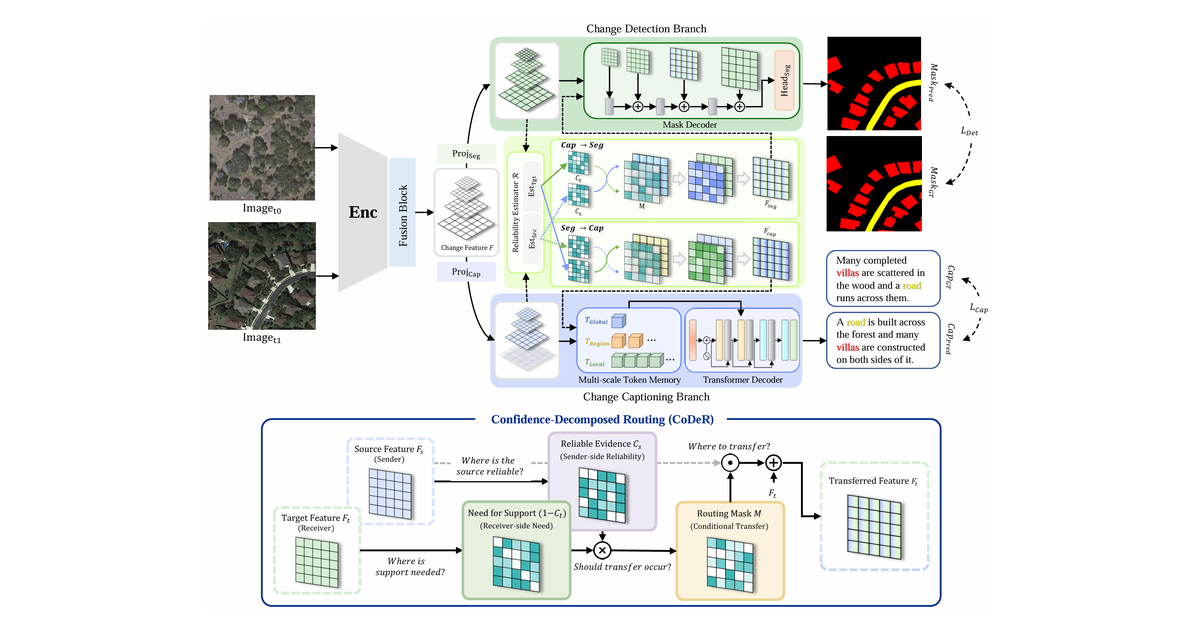
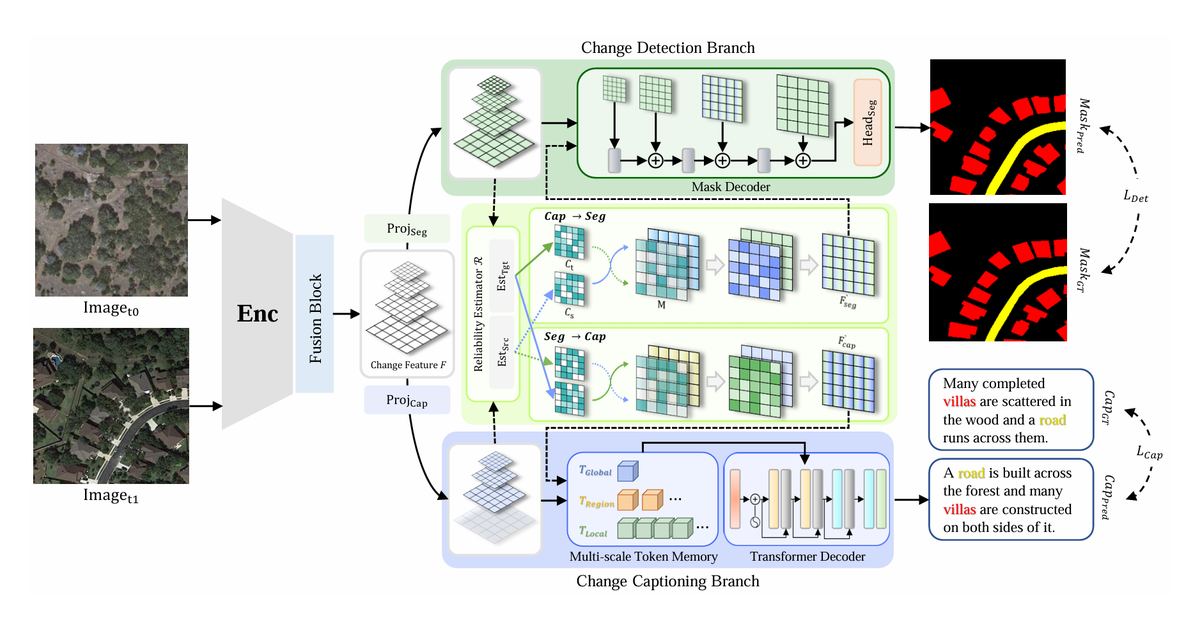
Split overview figure, link Paper to arXiv
- teaser: overview.png -> overview1.png (architecture only); caption drops
  "shown at the bottom" since the CoDeR block is no longer in this figure
- method: overview2.png (CoDeR block) between the intro paragraph and the
  three cue cards
- Paper button -> https://arxiv.org/abs/2610.34876; arXiv button removed,
  with the now unused academicons stylesheet and disabled-button rule
- citation_pdf_url, social preview regenerated from overview1.png, README

diff --git a/index.html b/index.html
@@ -7,8 +7,7 @@
   <!--
     TODO before the camera-ready release (search for "TODO" in this file):
       1. Full paper title: hero <h1>/subtitle, citation_title, JSON-LD headline, BibTeX title
-      2. Paper / arXiv links: the two disabled buttons in .publication-links (+ citation_pdf_url)
-      3. Abstract: replace the draft with the camera-ready abstract
+      2. Abstract: replace the draft with the camera-ready abstract
   -->
 
   <!-- Primary Meta Tags -->
@@ -45,13 +44,14 @@
   <meta name="twitter:image:alt" content="CoDeRNet architecture overview">
 
   <!-- Academic/Research Specific -->
-  <!-- TODO: citation_title = final paper title; add citation_pdf_url once the paper PDF is public -->
+  <!-- TODO: citation_title = final paper title -->
   <meta name="citation_title" content="CoDeRNet: Confidence-Decomposed Routing for Joint Change Detection and Change Captioning">
   <meta name="citation_author" content="Cho, Eunki">
   <meta name="citation_author" content="Kim, Hyeon Bae">
   <meta name="citation_author" content="Kim, Seong Tae">
   <meta name="citation_publication_date" content="2026">
   <meta name="citation_conference_title" content="Advances in Neural Information Processing Systems (NeurIPS)">
+  <meta name="citation_pdf_url" content="https://arxiv.org/pdf/2610.34876">
 
   <!-- Additional SEO -->
   <meta name="theme-color" content="#2563eb">
@@ -63,7 +63,6 @@
   <link rel="preconnect" href="https://fonts.googleapis.com">
   <link rel="preconnect" href="https://fonts.gstatic.com" crossorigin>
   <link rel="preconnect" href="https://ajax.googleapis.com">
-  <link rel="preconnect" href="https://cdn.jsdelivr.net">
 
 
   <title>CoDeRNet — Confidence-Decomposed Routing for Change Detection and Captioning</title>
@@ -80,14 +79,12 @@
   <link rel="preload" href="static/css/bulma-carousel.min.css" as="style" onload="this.onload=null;this.rel='stylesheet'">
   <link rel="preload" href="static/css/bulma-slider.min.css" as="style" onload="this.onload=null;this.rel='stylesheet'">
   <link rel="preload" href="static/css/fontawesome.all.min.css" as="style" onload="this.onload=null;this.rel='stylesheet'">
-  <link rel="preload" href="https://cdn.jsdelivr.net/gh/jpswalsh/academicons@1/css/academicons.min.css" as="style" onload="this.onload=null;this.rel='stylesheet'">
 
   <!-- Fallback for browsers that don't support preload -->
   <noscript>
     <link rel="stylesheet" href="static/css/bulma-carousel.min.css">
     <link rel="stylesheet" href="static/css/bulma-slider.min.css">
     <link rel="stylesheet" href="static/css/fontawesome.all.min.css">
-    <link rel="stylesheet" href="https://cdn.jsdelivr.net/gh/jpswalsh/academicons@1/css/academicons.min.css">
   </noscript>
 
   <!-- Fonts - Optimized loading -->
@@ -194,23 +191,13 @@
 
             <div class="column has-text-centered">
               <div class="publication-links">
-                <!-- TODO: Paper PDF link (pending): add href and remove disabled/aria-disabled -->
                 <span class="link-block">
-                  <a class="external-link button is-normal is-rounded is-dark" disabled aria-disabled="true" title="Paper PDF (link pending)">
+                  <a href="https://arxiv.org/abs/2610.34876" target="_blank" rel="noopener"
+                  class="external-link button is-normal is-rounded is-dark">
                     <span class="icon">
                       <i class="fas fa-file-pdf"></i>
                     </span>
                     <span>Paper</span>
-                  </a>
-                </span>
-
-                <!-- TODO: arXiv link (pending): add href and remove disabled/aria-disabled -->
-                <span class="link-block">
-                  <a class="external-link button is-normal is-rounded is-dark" disabled aria-disabled="true" title="arXiv (link pending)">
-                    <span class="icon">
-                      <i class="ai ai-arxiv"></i>
-                    </span>
-                    <span>arXiv</span>
                   </a>
                 </span>
 
@@ -256,10 +243,10 @@
   <div class="container is-max-desktop">
     <div class="hero-body">
       <figure class="figure">
-        <a class="figure-card zoomable" href="static/images/overview.png" title="Click to enlarge">
-          <img src="static/images/overview.png" alt="CoDeRNet architecture: shared encoder and fusion block, change detection branch, change captioning branch, and the Confidence-Decomposed Routing block" width="1783" height="1337" loading="eager">
+        <a class="figure-card zoomable" href="static/images/overview1.png" title="Click to enlarge">
+          <img src="static/images/overview1.png" alt="CoDeRNet architecture: shared encoder and fusion block, change detection branch, change captioning branch, and the routing between the two branches" width="1783" height="874" loading="eager">
         </a>
-        <figcaption class="figure-caption"><strong>Overview of CoDeRNet.</strong> A shared encoder and fusion block produce multi-scale change features, which are projected into a change-detection branch (mask decoder) and a change-captioning branch (multi-scale token memory + Transformer decoder). The two branches exchange information through Confidence-Decomposed Routing (CoDeR), shown at the bottom.</figcaption>
+        <figcaption class="figure-caption"><strong>Overview of CoDeRNet.</strong> A shared encoder and fusion block produce multi-scale change features, which are projected into a change-detection branch (mask decoder) and a change-captioning branch (multi-scale token memory + Transformer decoder). The two branches exchange information through Confidence-Decomposed Routing (CoDeR).</figcaption>
       </figure>
     </div>
   </div>
@@ -294,7 +281,17 @@
         <div class="content has-text-justified">
           <p>CoDeR decides, location by location, whether information from one task branch should be transferred into the other. Instead of a single interaction weight, the decision is decomposed into two learned confidence cues, one on each side of the transfer, and the transfer happens only where both agree.</p>
         </div>
+      </div>
+    </div>
 
+    <figure class="figure method-figure">
+      <a class="figure-card zoomable" href="static/images/overview2.png" title="Click to enlarge">
+        <img src="static/images/overview2.png" alt="Confidence-Decomposed Routing (CoDeR): the receiver-side need for support and the sender-side reliable evidence are combined into a routing mask that gates the transfer of the source feature into the target feature" width="1783" height="454" loading="lazy">
+      </a>
+    </figure>
+
+    <div class="columns is-centered">
+      <div class="column is-four-fifths">
         <div class="columns method-cards has-text-left">
           <div class="column">
             <div class="box">

diff --git a/static/css/index.css b/static/css/index.css
@@ -769,7 +769,7 @@ a:focus {
   color: var(--primary-hover) !important;
 }
 
-/* Hero: subtitle under the short title, e-mail line, links that are not public yet */
+/* Hero: subtitle under the short title, e-mail line */
 .publication-subtitle {
   color: var(--text-secondary) !important;
   line-height: 1.4 !important;
@@ -783,13 +783,13 @@ a:focus {
   color: var(--text-secondary);
 }
 
-.button.is-dark[disabled] {
-  pointer-events: none;
-}
-
 /* Figures: same card look as the template's carousel items; click to enlarge */
 .figure + .figure {
   margin-top: 3rem;
+}
+
+.method-figure {
+  margin-bottom: 2.25rem;
 }
 
 .figure-card {

diff --git a/README.md b/README.md
@@ -25,11 +25,12 @@ CoDeRNet-Project/
     │   └── ...                 # bulma-carousel / bulma-slider / Font Awesome (template)
     ├── webfonts/               # Font Awesome 5.15.1 woff2 files (missing from the template)
     └── images/
-        ├── overview.png              # teaser / architecture figure
+        ├── overview1.png             # teaser: architecture overview
+        ├── overview2.png             # Method: Confidence-Decomposed Routing block
         ├── table1_levir_mci.png      # Table 1
         ├── table2_whu_cdc.png        # Table 2
         ├── qualitative_levir_mci.png # qualitative results
-        ├── social_preview.png        # 1200x630 link preview (Open Graph / Twitter), made from overview.png
+        ├── social_preview.png        # 1200x630 link preview (Open Graph / Twitter), made from overview1.png
         ├── favicon.ico
         └── apple-touch-icon.png
 ```
@@ -54,10 +55,10 @@ Everything is in `index.html`; each part of the page is a `<section>` with an id
 
 | Section | id | Notes |
 |---|---|---|
-| Title, authors, venue, link buttons | (first `section.hero`) | |
-| Overview figure | `overview` | |
+| Title, authors, venue, link buttons | (first `section.hero`) | Paper → arXiv 2610.34876 |
+| Overview figure | `overview` | `overview1.png` |
 | Abstract | `abstract` | |
-| Method (Confidence-Decomposed Routing) | `method` | three cue cards |
+| Method (Confidence-Decomposed Routing) | `method` | `overview2.png` and three cue cards |
 | Quantitative results | `results` | Table 1 and Table 2 images |
 | Qualitative results | `qualitative` | |
 | Code and weights | `code` | quick-start commands with a copy button |
@@ -67,12 +68,7 @@ Everything is in `index.html`; each part of the page is a `<section>` with an id
 Open items are marked with `TODO` comments in `index.html` (`grep -n TODO index.html`):
 
 1. **Full paper title** — hero title/subtitle, `citation_title`, the JSON-LD `headline`, and the BibTeX title.
-2. **Paper / arXiv links** — the two buttons are shown disabled ("link pending"). Add the `href` and remove `disabled aria-disabled="true"`, e.g.
-   ```html
-   <a href="https://arxiv.org/abs/XXXX.XXXXX" target="_blank" rel="noopener" class="external-link button is-normal is-rounded is-dark">
-   ```
-   and add `<meta name="citation_pdf_url" content="...">` once the PDF is public.
-3. **Abstract** — the current text is the draft from the previous page; replace it with the camera-ready abstract.
+2. **Abstract** — the current text is the draft from the previous page; replace it with the camera-ready abstract.
 
 If the title or description changes, also update the matching `<title>`, `description`, `og:*` and `twitter:*` meta tags at the top of `index.html`.
 
